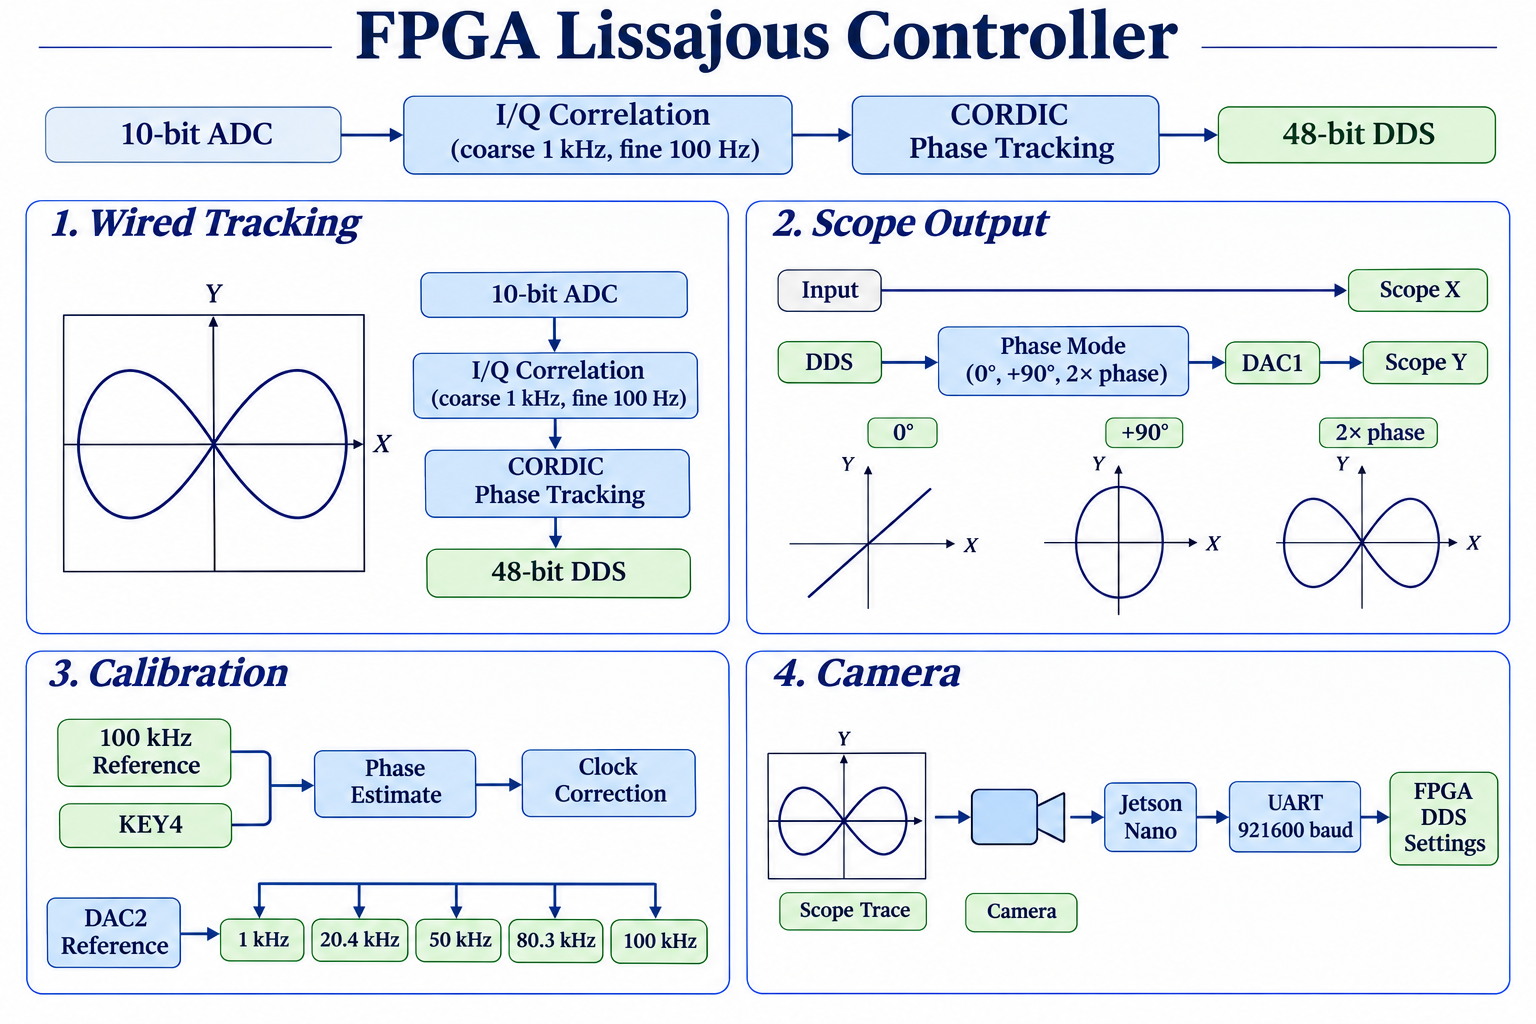
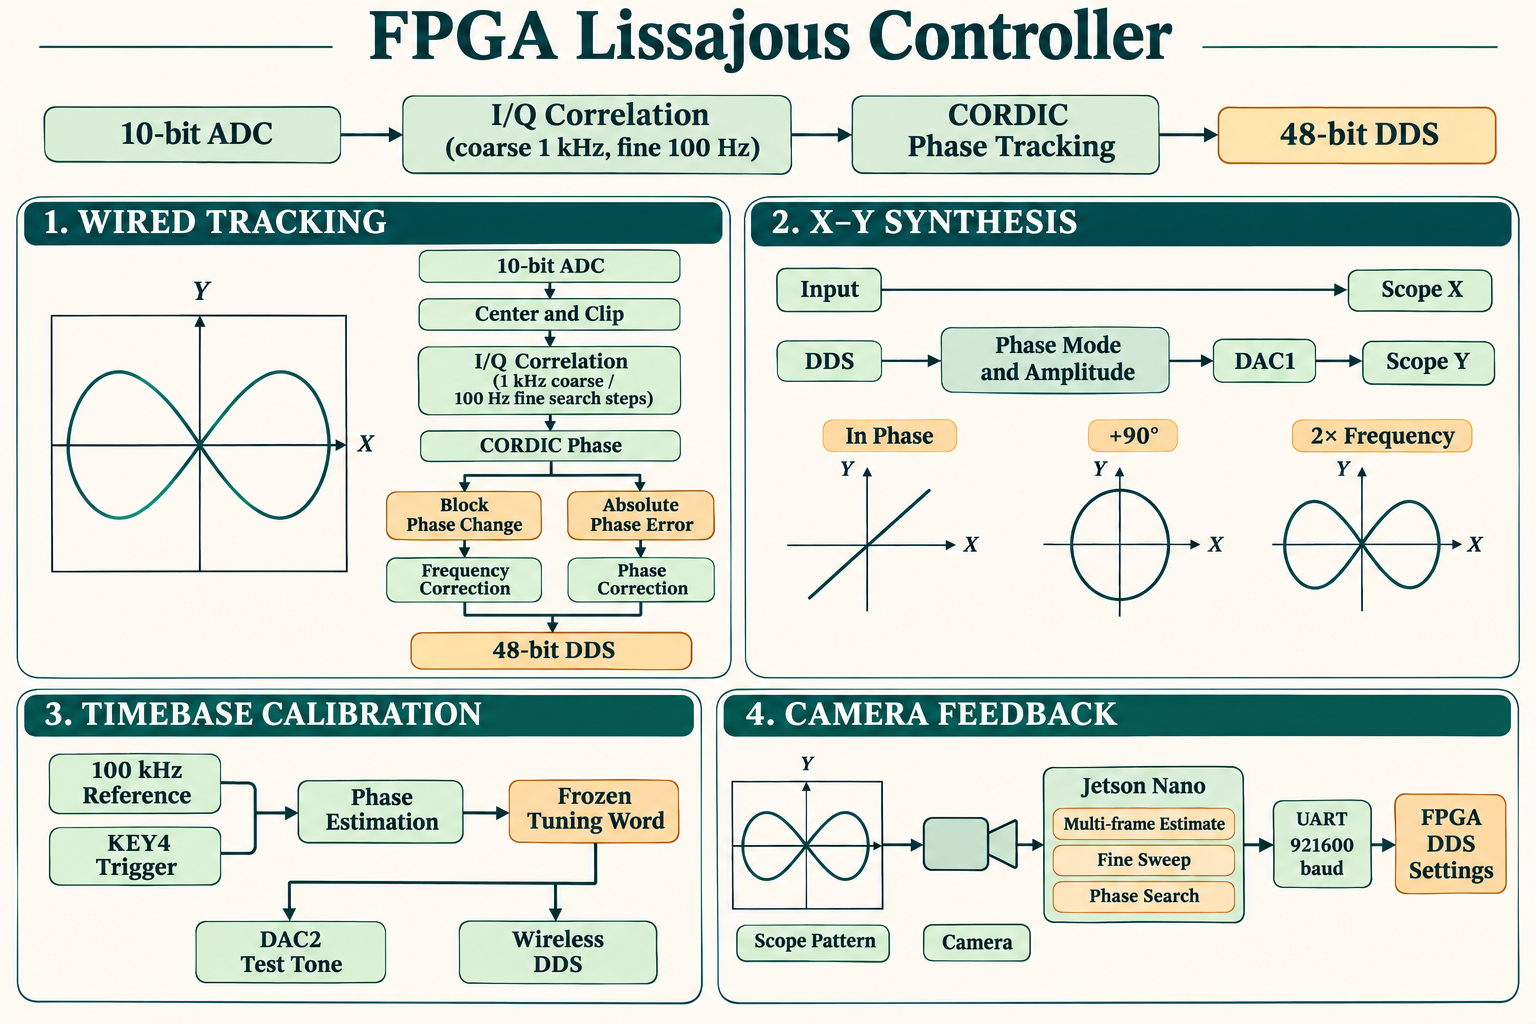
Expand Lissajous architecture into three detailed diagrams

diff --git a/AUTHORS.md b/AUTHORS.md
@@ -2,4 +2,4 @@
 
 - Ethereal — FPGA 架构、RTL、验证、工具与开源文档整理
 
-竞赛成绩：2026 年全国大学生电子设计竞赛江苏赛区赛 F 题省冠军。
+竞赛成绩：2026 年全国大学生电子设计竞赛江苏赛区 F 题省一等奖。
